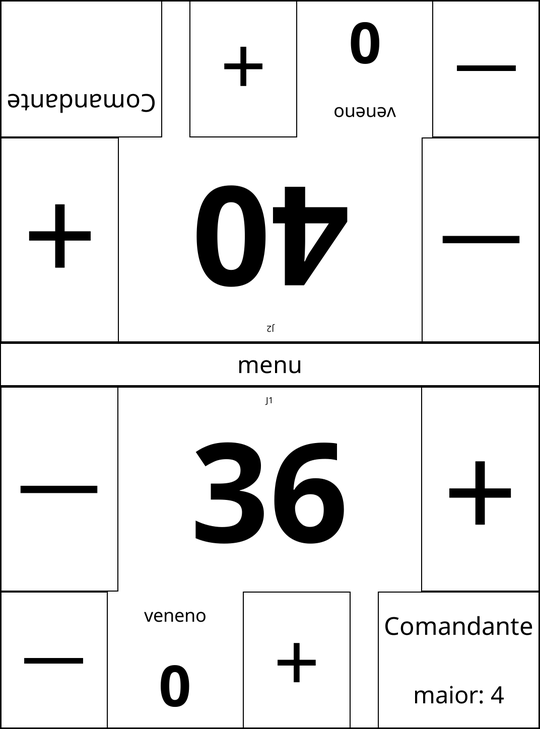
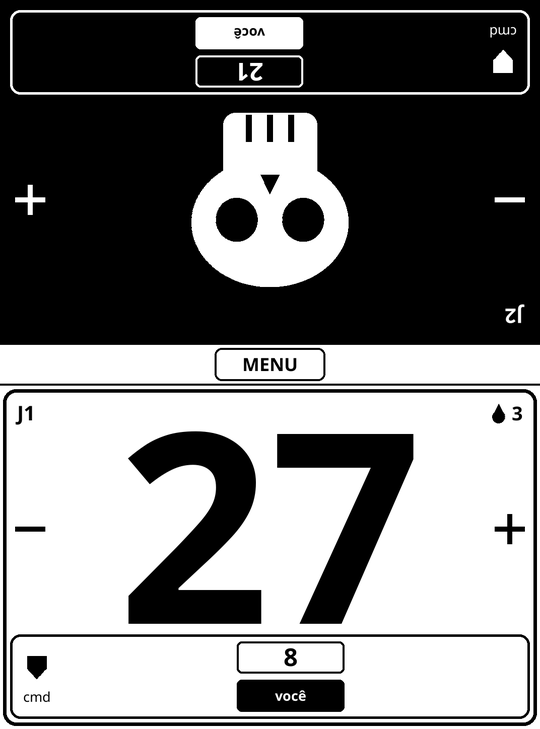
Docs do visual A2: aceitação, ganchos de demo, Xephyr e capturas novas no README

diff --git a/docs/acceptance.md b/docs/acceptance.md
@@ -8,13 +8,16 @@ Marque cada item depois de testar no aparelho.
 ## Jogo
 - [ ] Nova partida com 2 jogadores, 40 de vida: os dois painéis aparecem, um de cabeça para baixo.
 - [ ] Nova partida com 4 e com 6 jogadores: todos os painéis legíveis; numeração J1..Jn no sentido horário a partir do canto inferior esquerdo.
-- [ ] Toque em + e − muda 1; segurar muda 10; os dois funcionam também no painel de cabeça para baixo.
-- [ ] Veneno: + e − mudam o número; em 10 o painel mostra "FORA: veneno".
-- [ ] Vida em 0 ou menos mostra "FORA: vida" e os controles continuam funcionando.
-- [ ] "Comandante" abre a tela de dano; somar dano tira a mesma vida do jogador; 21 de um mesmo oponente mostra "LETAL" e o painel "FORA: comandante".
-- [ ] Na tela de comandante aberta pelo painel de cima, ela aparece de cabeça para baixo e legível para quem está lá.
-- [ ] Toque duplo rápido em "Comandante" não altera o dano nem a vida.
-- [ ] "Voltar" fecha a tela de comandante e o jogo mostra os números novos.
+- [ ] Toque na metade esquerda do painel tira 1 e na direita soma 1; segurar muda 10; vale também no painel de cabeça para baixo (as metades seguem quem está sentado ali).
+- [ ] Veneno aparece no canto (gota + número) só quando não é zero.
+- [ ] Vida em 0 ou menos, veneno 10 ou 21 de um mesmo comandante: painel preto com caveira, sem texto de motivo, e os controles continuam funcionando.
+- [ ] A miniatura da mesa embaixo do painel mostra o dano recebido de cada oponente no lugar dele; tocar nela abre a tela de dano sem mudar nada.
+- [ ] Tela de dano: metade esquerda/direita do quadrado de um oponente tira/soma 1 (segurar 10); somar dano tira a mesma vida do jogador; o quadrado "VOCÊ" não reage.
+- [ ] Tela de dano aberta pelo painel de cima: a faixa do meio (Voltar e veneno) aparece virada para quem está lá.
+- [ ] Veneno − e + na faixa do meio mudam 1.
+- [ ] Toque duplo rápido na miniatura não altera o dano nem a vida.
+- [ ] "Voltar" fecha a tela de dano e o jogo mostra os números novos.
+- [ ] "MENU" na barra central abre o menu.
 
 ## Continuidade
 - [ ] Fechar o KOReader e abrir de novo: "Continuar partida" mostra os mesmos números.

diff --git a/docs/dev-loop.md b/docs/dev-loop.md
@@ -22,6 +22,23 @@ DISPLAY=:1 xwininfo -root -tree | grep -i koreader     # achar o id da janela
 python3 tools/screenshot.py saida.png :1 <ID_DA_JANELA>
 ```
 
+- Se a tela do PC tiver menos de 1448 px de altura, a janela fica cortada. Nesse caso, rode dentro de
+  um Xephyr do tamanho do Kindle e capture a raiz dele:
+
+```bash
+Xephyr :5 -screen 1072x1448 -no-host-grab &
+cd <koreader-emu>/app && KOREADER_WINDOW_POS_X=0 KOREADER_WINDOW_POS_Y=0 DISPLAY=:5 \
+  LIFECOUNTER_AUTOSTART=1 EMULATE_READER_W=1072 EMULATE_READER_H=1448 ./bin/koreader
+xwd -root -display :5 -silent > tela.xwd   # ou tools/screenshot.py trocando -id por -root
+```
+
+- Ganchos de demonstração (só desenvolvimento, em `app.lua`):
+  - `LIFECOUNTER_DEMO=<n>` abre direto uma partida de n jogadores com dano de comandante de 2 oponentes
+    em J1, veneno, J2 fora por 21 de comandante e J6 fora por vida.
+  - `LIFECOUNTER_DEMO_COMMANDER=<alvo>` (junto com o anterior) abre a tela de dano do alvo e simula
+    toques: 2× + no 1º oponente, segurar + no 2º e veneno +. A faixa do meio gira sozinha se o alvo
+    está na fileira de cima.
+  - `LIFECOUNTER_SIM_TAPS="x:y:segundos,..."` simula toques na tela.
 - Os logs do emulador saem no terminal que o iniciou. Para recarregar o código depois de editar, feche e abra o emulador.
 
 ## Kindle

diff --git a/README.md b/README.md
@@ -8,10 +8,10 @@ painel virado para o seu lado. Inspirado no LifeTap.
 
 <p align="center">
   <img src="docs/img/seis-jogadores.png" width="270" alt="Partida com 6 jogadores">
-  <img src="docs/img/dois-jogadores.png" width="270" alt="Partida com 2 jogadores, dano de comandante">
+  <img src="docs/img/dois-jogadores.png" width="270" alt="Partida com 2 jogadores, um fora por dano de comandante">
 </p>
 
-> O visual está sendo redesenhado; as imagens acima mostram a versão atual, ainda crua.
+> Capturas do emulador do KOReader no tamanho da tela do Kindle (1072 × 1448).
 
 ## Recursos
 
